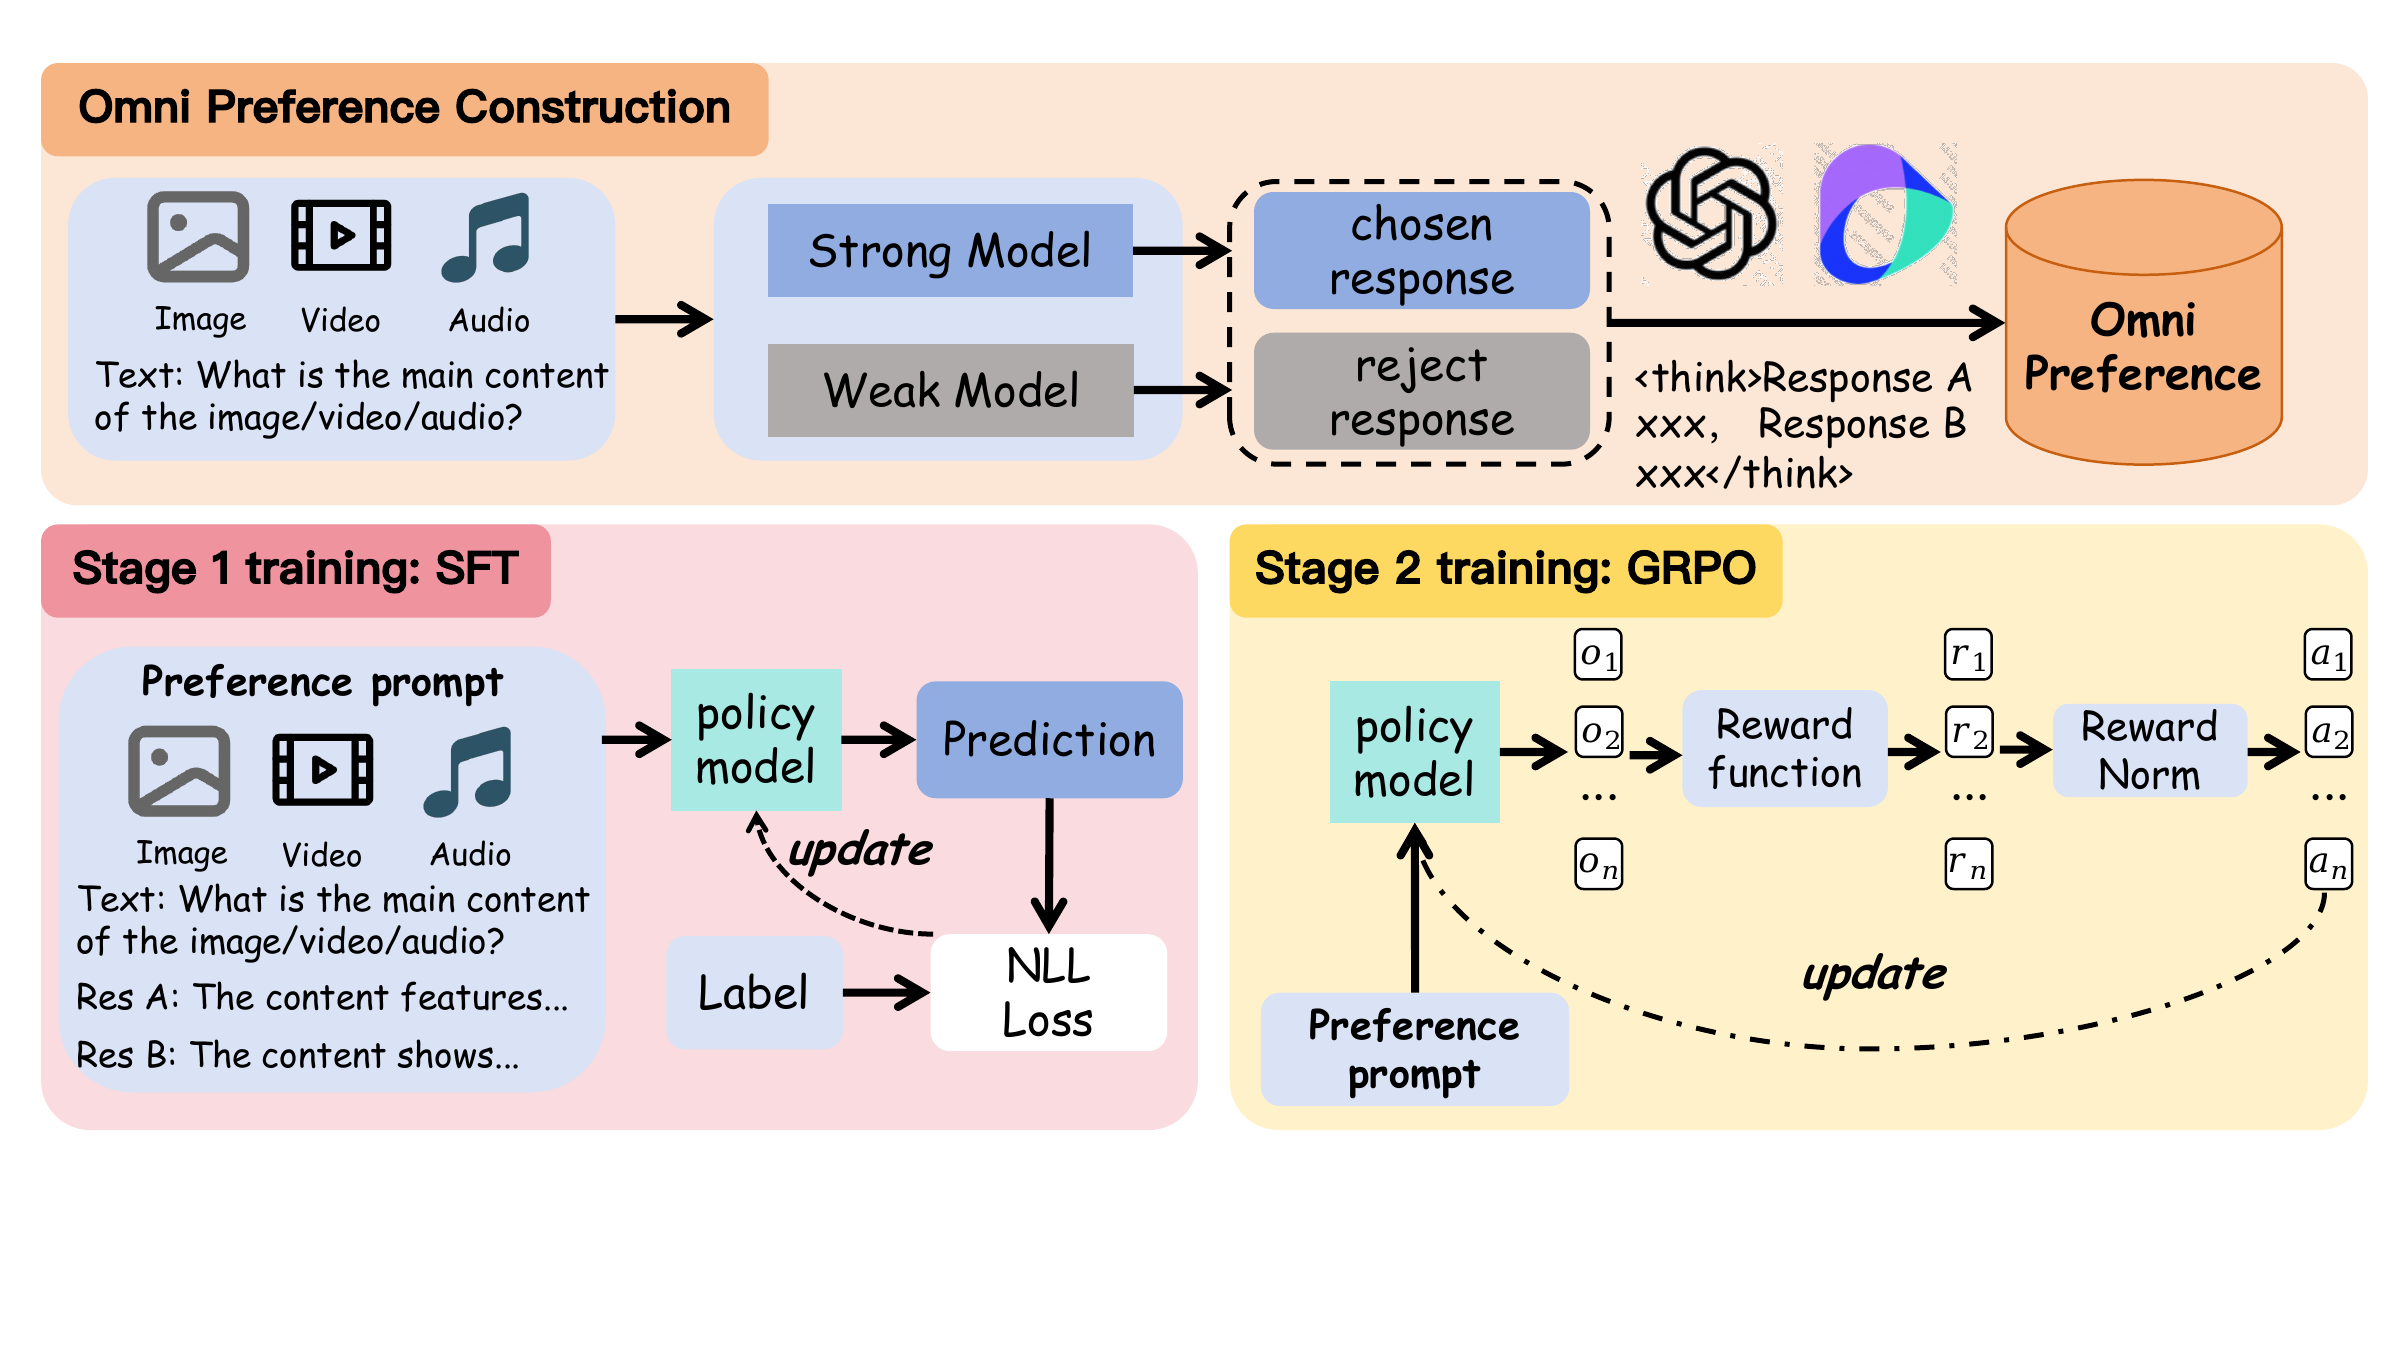
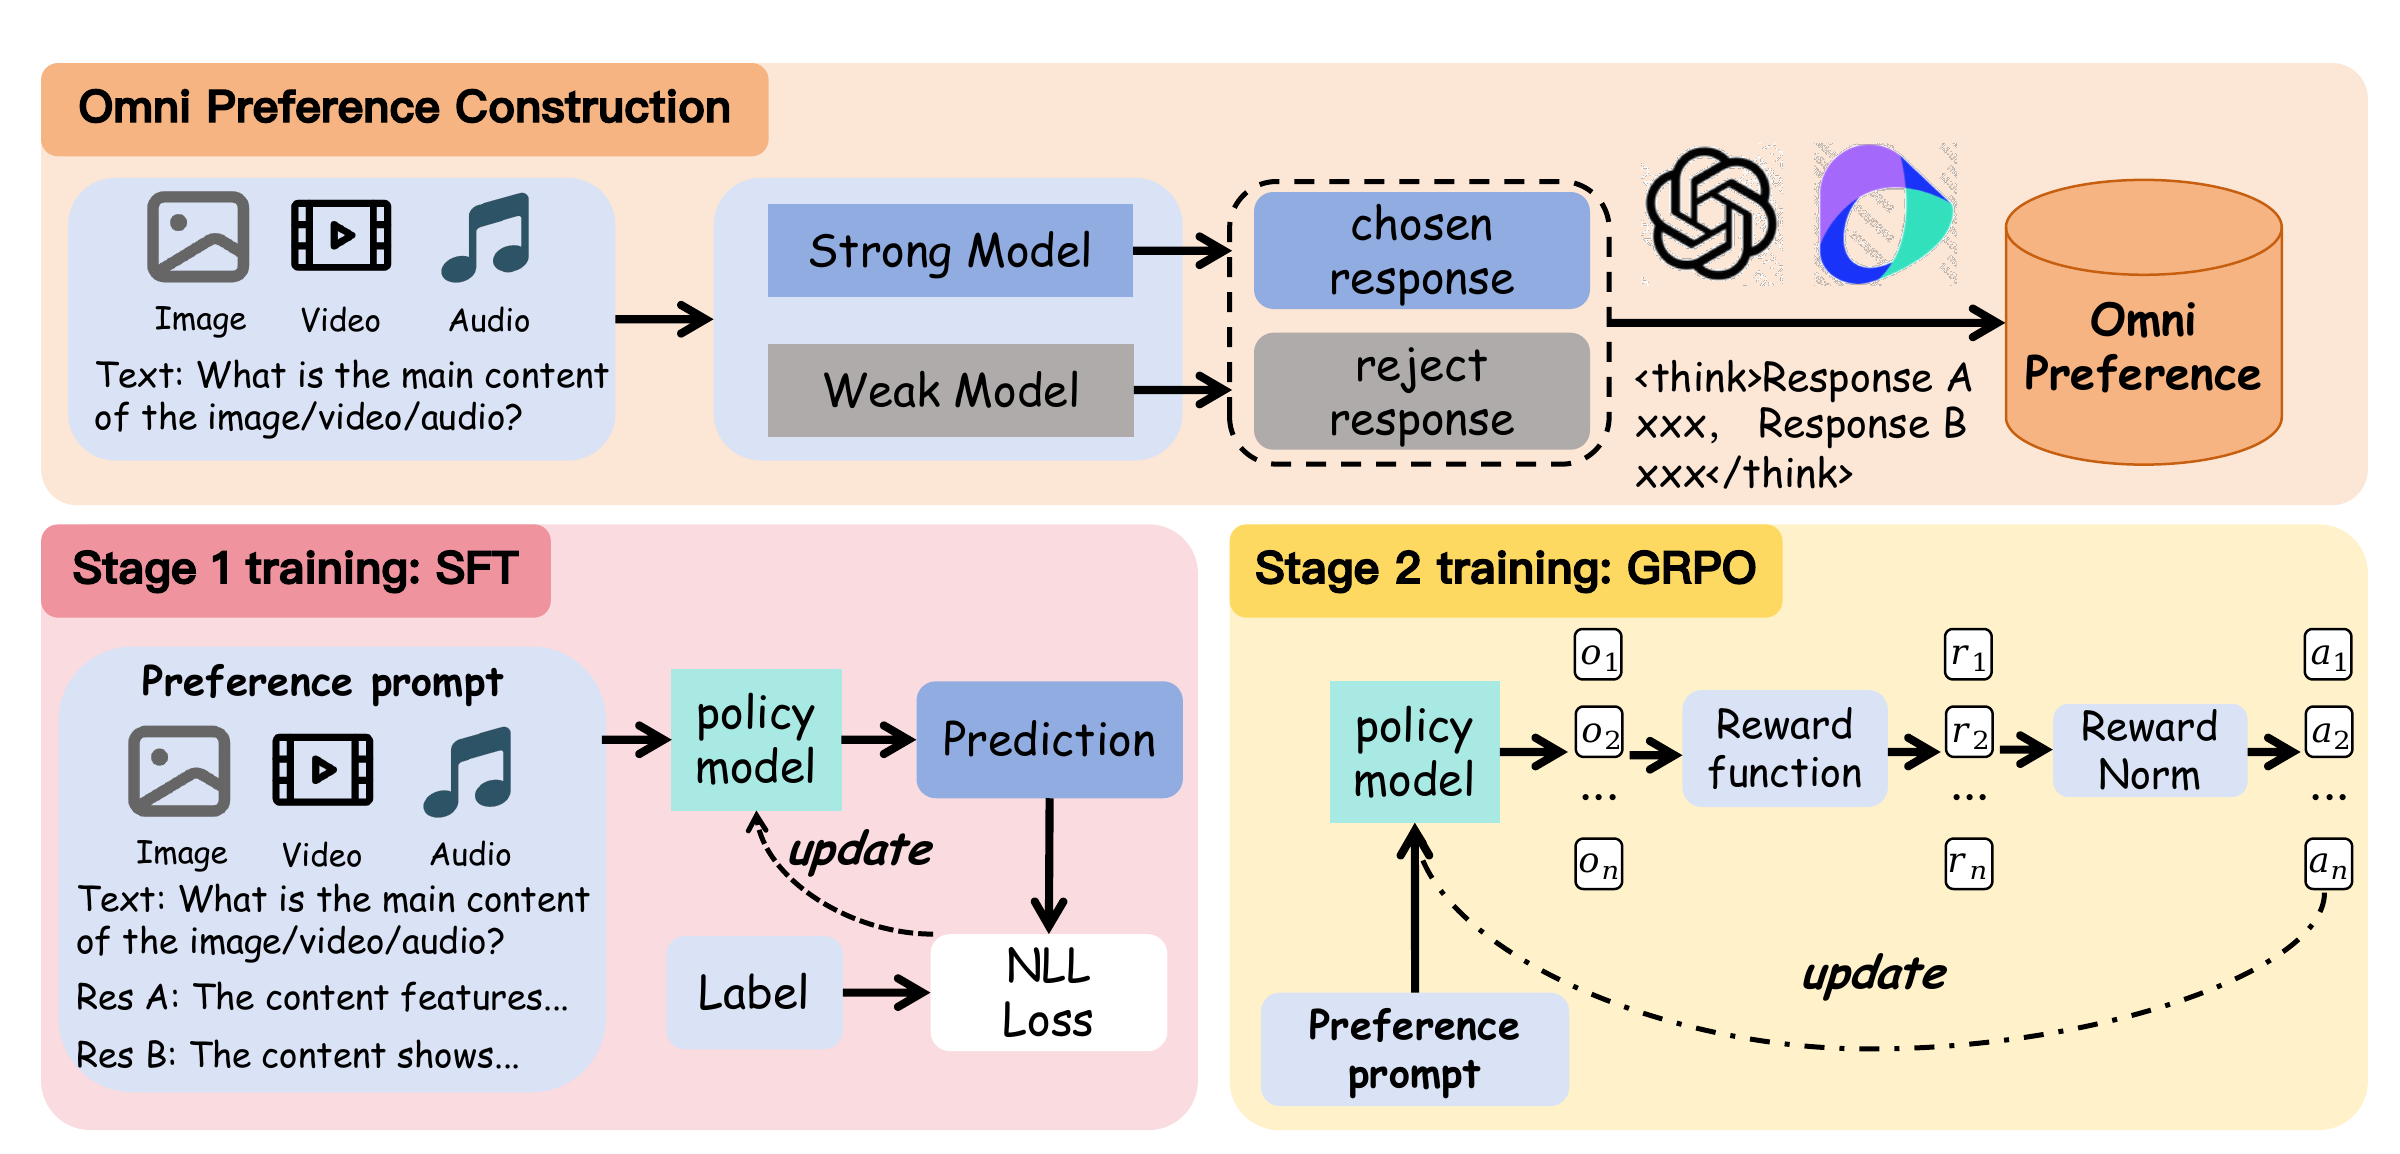
Polish project page layout

diff --git a/docs/styles.css b/docs/styles.css
@@ -53,7 +53,7 @@ img {
 
 .page {
   width: calc(100% - 36px);
-  max-width: 1120px;
+  max-width: 1240px;
   margin: 0 auto;
 }
 
@@ -353,13 +353,31 @@ table {
   border-collapse: collapse;
 }
 
+.full-results table {
+  min-width: 1120px;
+  table-layout: fixed;
+}
+
+.full-results col.model-col {
+  width: 270px;
+}
+
+.full-results col.benchmark-col {
+  width: 140px;
+}
+
+.full-results col.overall-col {
+  width: 150px;
+}
+
 th,
 td {
-  padding: 10px 10px;
+  padding: 10px 14px;
   border-bottom: 1px solid var(--line);
-  text-align: right;
+  text-align: center;
   white-space: nowrap;
   font-size: 0.84rem;
+  vertical-align: middle;
 }
 
 th:first-child,
@@ -374,6 +392,14 @@ th {
   background: #eef3fb;
   color: #39445a;
   font-size: 0.76rem;
+  line-height: 1.25;
+}
+
+.full-results th:last-child,
+.full-results td:last-child {
+  padding-left: 20px;
+  padding-right: 20px;
+  text-align: center;
 }
 
 tr:last-child td {

diff --git a/docs/index.html b/docs/index.html
@@ -187,6 +187,15 @@
 
           <div class="table-shell full-results" role="region" aria-label="Main benchmark results" tabindex="0">
             <table>
+              <colgroup>
+                <col class="model-col">
+                <col class="benchmark-col">
+                <col class="benchmark-col">
+                <col class="benchmark-col">
+                <col class="benchmark-col">
+                <col class="benchmark-col">
+                <col class="overall-col">
+              </colgroup>
               <thead>
                 <tr>
                   <th>Model</th>